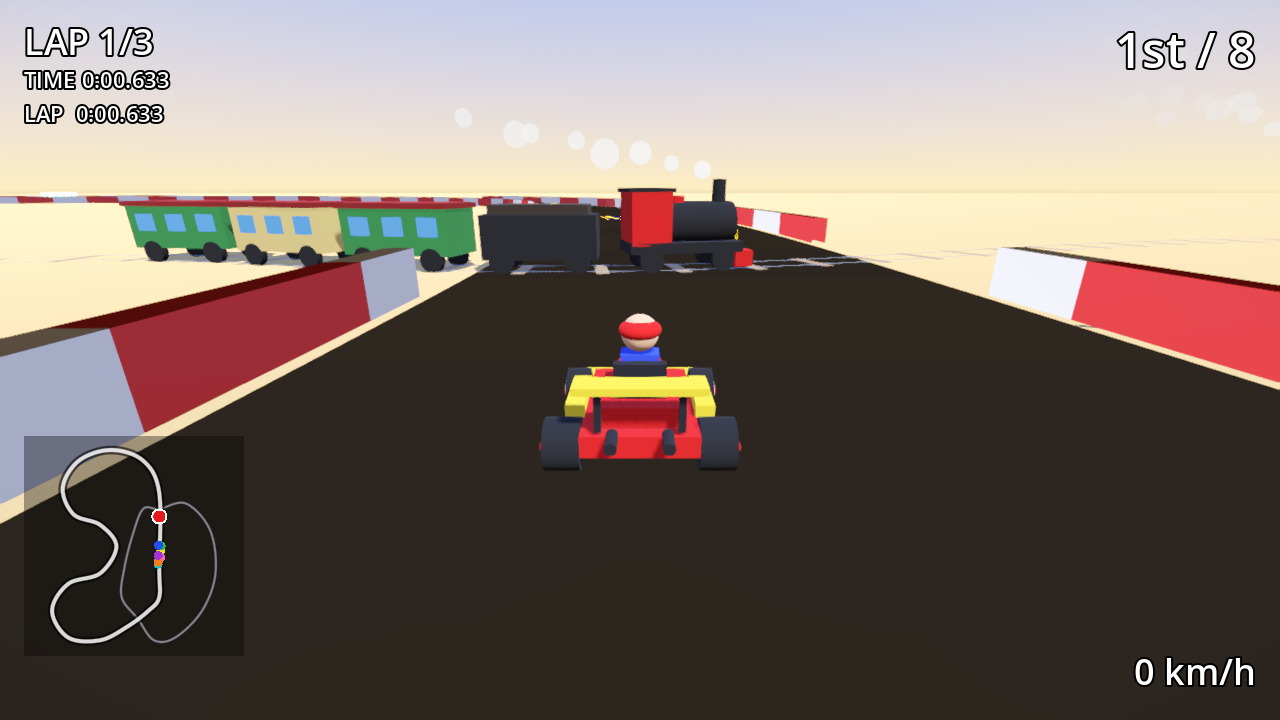
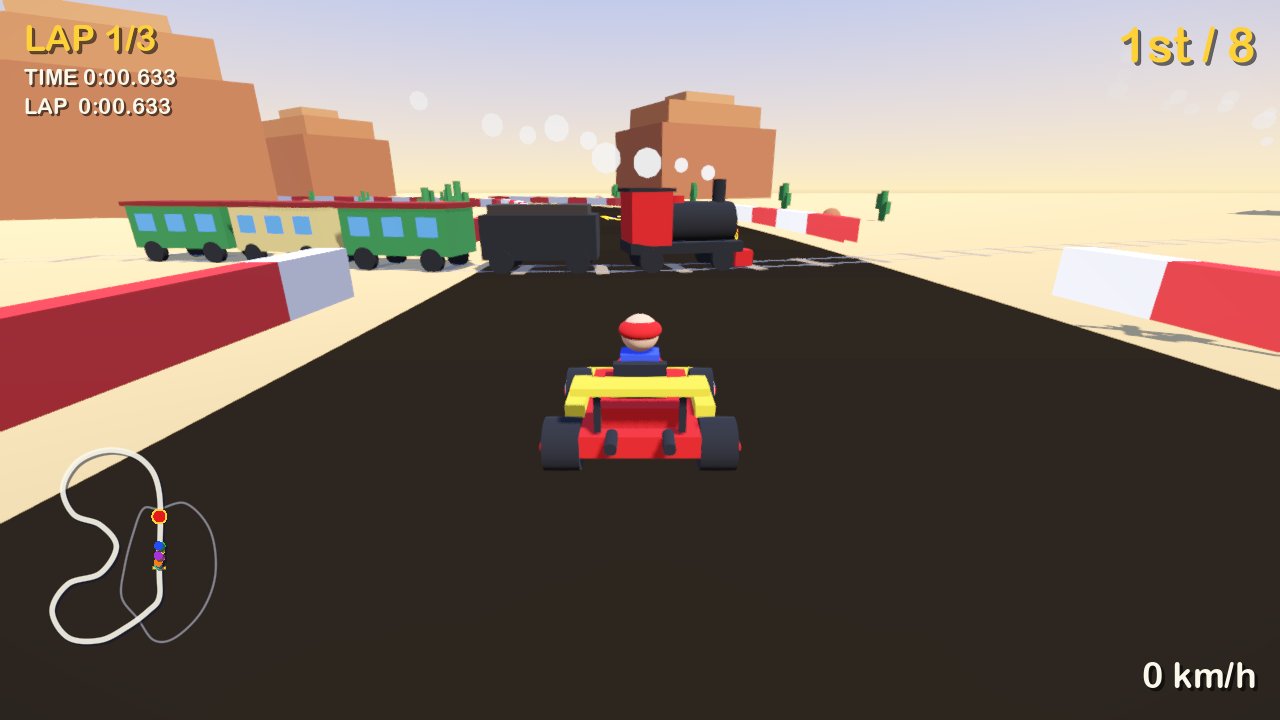
README: update screenshots from the blog post (10 shots, add battle)

diff --git a/README.md b/README.md
@@ -12,7 +12,7 @@ A Mario Kart–style arcade kart racer built with **Godot 4** and GDScript. Ever
 
 ![The select screen: the course list with a picture beside each course, a live picture of the course flown along the road with the map outline in its corner, the option rows — every choice listed, the picked one lit — and the player's kart turning in its portrait window, over the dimmed demo](assets/screenshots/title-menu.png)
 
-![The course intro: the camera flies along the road before the countdown while the course name card sits in the corner as a gold sign](assets/screenshots/course-intro.png)
+![The course intro for Dusty Canyon: the camera flies over the desert road before the countdown while the course name card sits in the corner as a gold sign](assets/screenshots/course-intro.png)
 
 ![The pause screen: Esc freezes the race under a navy / gold panel — CONTINUE, RETRY, COURSE CHANGE, QUIT](assets/screenshots/pause.png)
 
@@ -31,6 +31,8 @@ A Mario Kart–style arcade kart racer built with **Godot 4** and GDScript. Ever
 ![The results board after a race: colour swatches, gold / silver / bronze places, the player's row lit](assets/screenshots/race-results.png)
 
 ![Grand Prix results with the cup standings side by side and the trophy](assets/screenshots/gp-results.png)
+
+![Battle mode: four karts on their start pads with three balloons each and Lakitu's start signal overhead](assets/screenshots/battle.png)
 
 ![A green shell in the MK64 style item window during the countdown](assets/screenshots/item-window.png)
 
